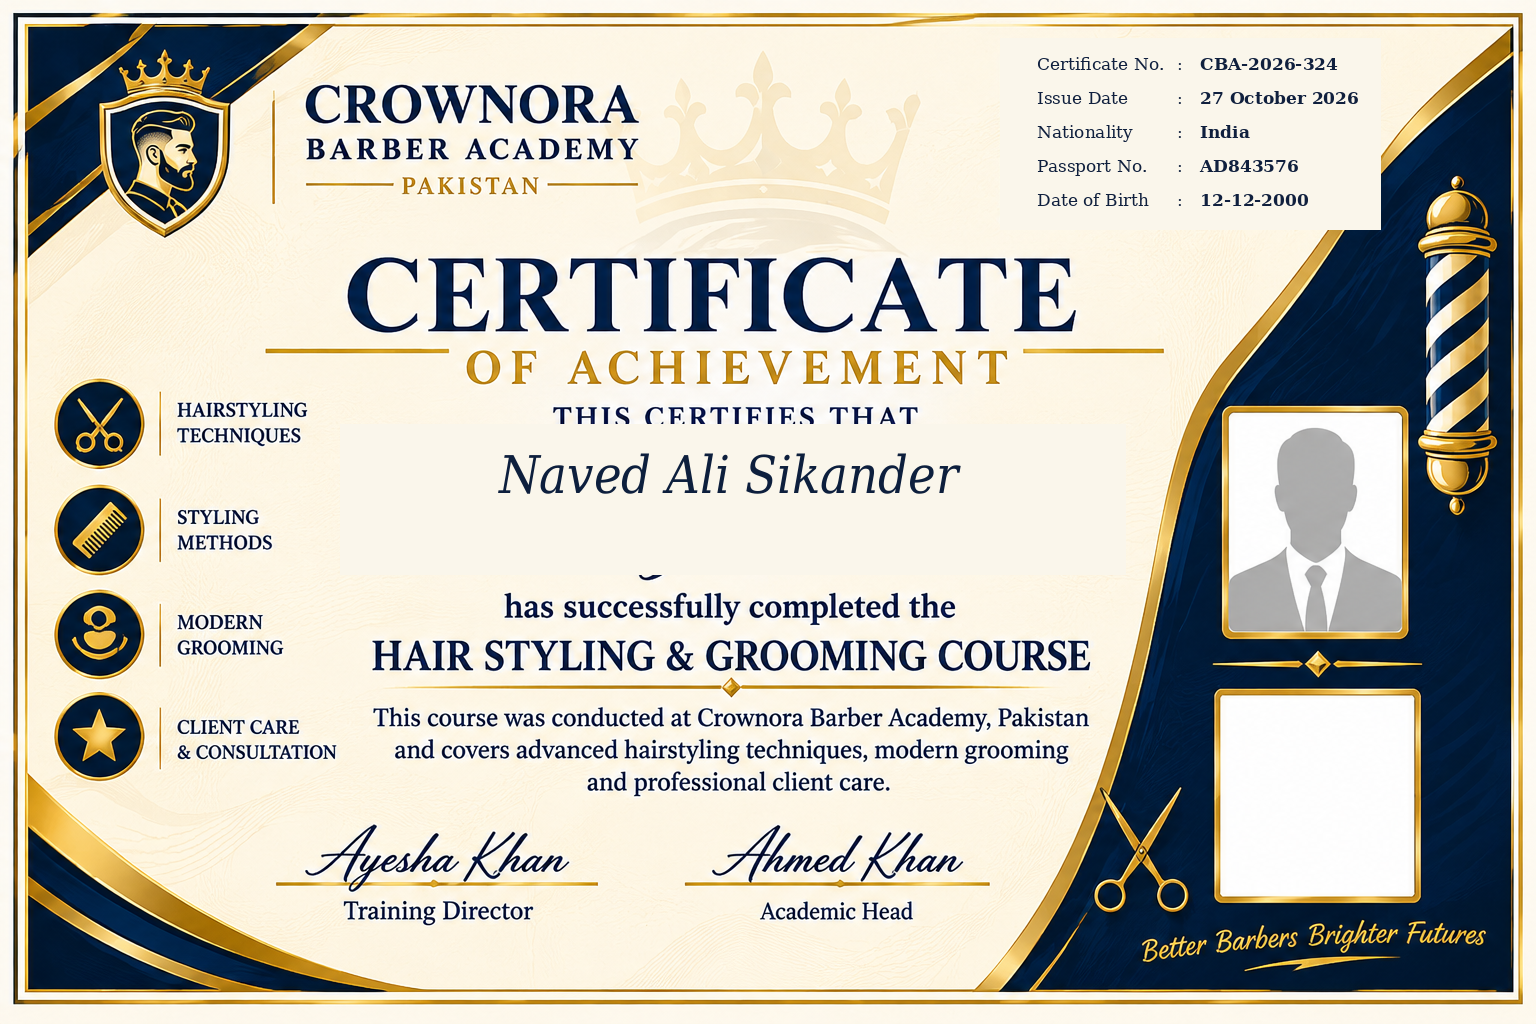
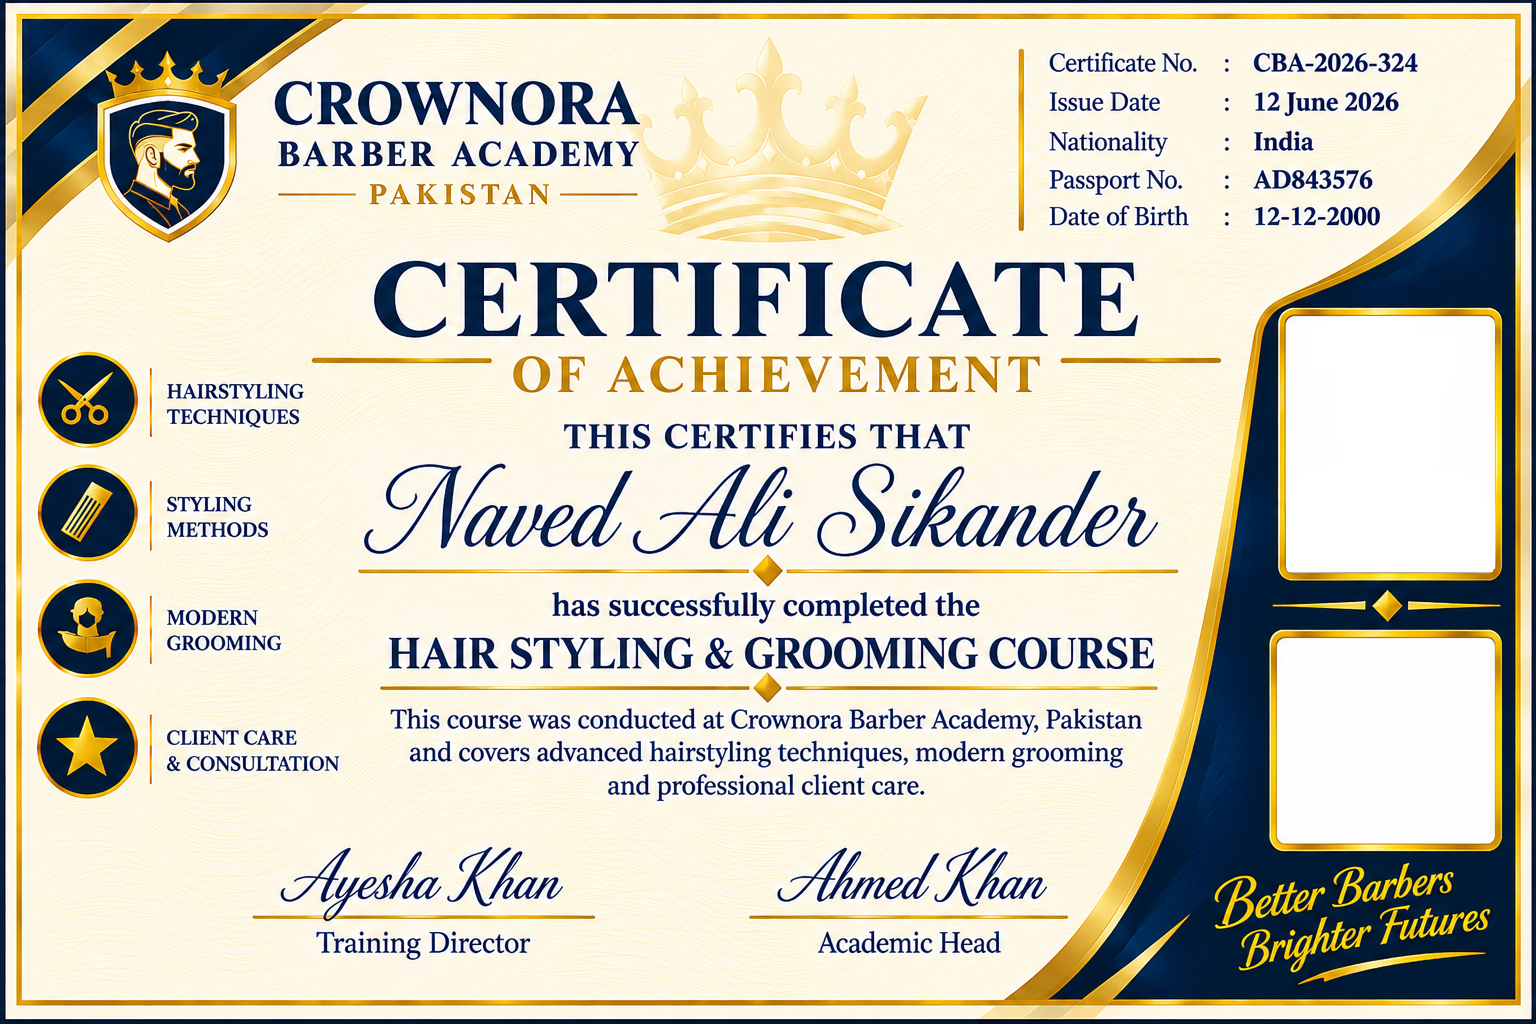
photo cert changes

diff --git a/src/data/certificates.js b/src/data/certificates.js
@@ -53,8 +53,8 @@ const HAIR_SUMMARY =
   'This course was conducted at Crownora Barber Academy, Pakistan and covers advanced hairstyling techniques, modern grooming and professional client care.'
 
 const ART = { imageWidth: 1536, imageHeight: 1024 }
-const PORTRAIT = { x: 1220, y: 401, width: 200, height: 235 }
-const QR = { x: 1225, y: 703, size: 185 }
+const PORTRAIT = { x: 1290, y: 338, width: 200, height: 228 }
+const QR = { x: 1296, y: 653, size: 185 }
 
 export const CERTIFICATES = [
   {
